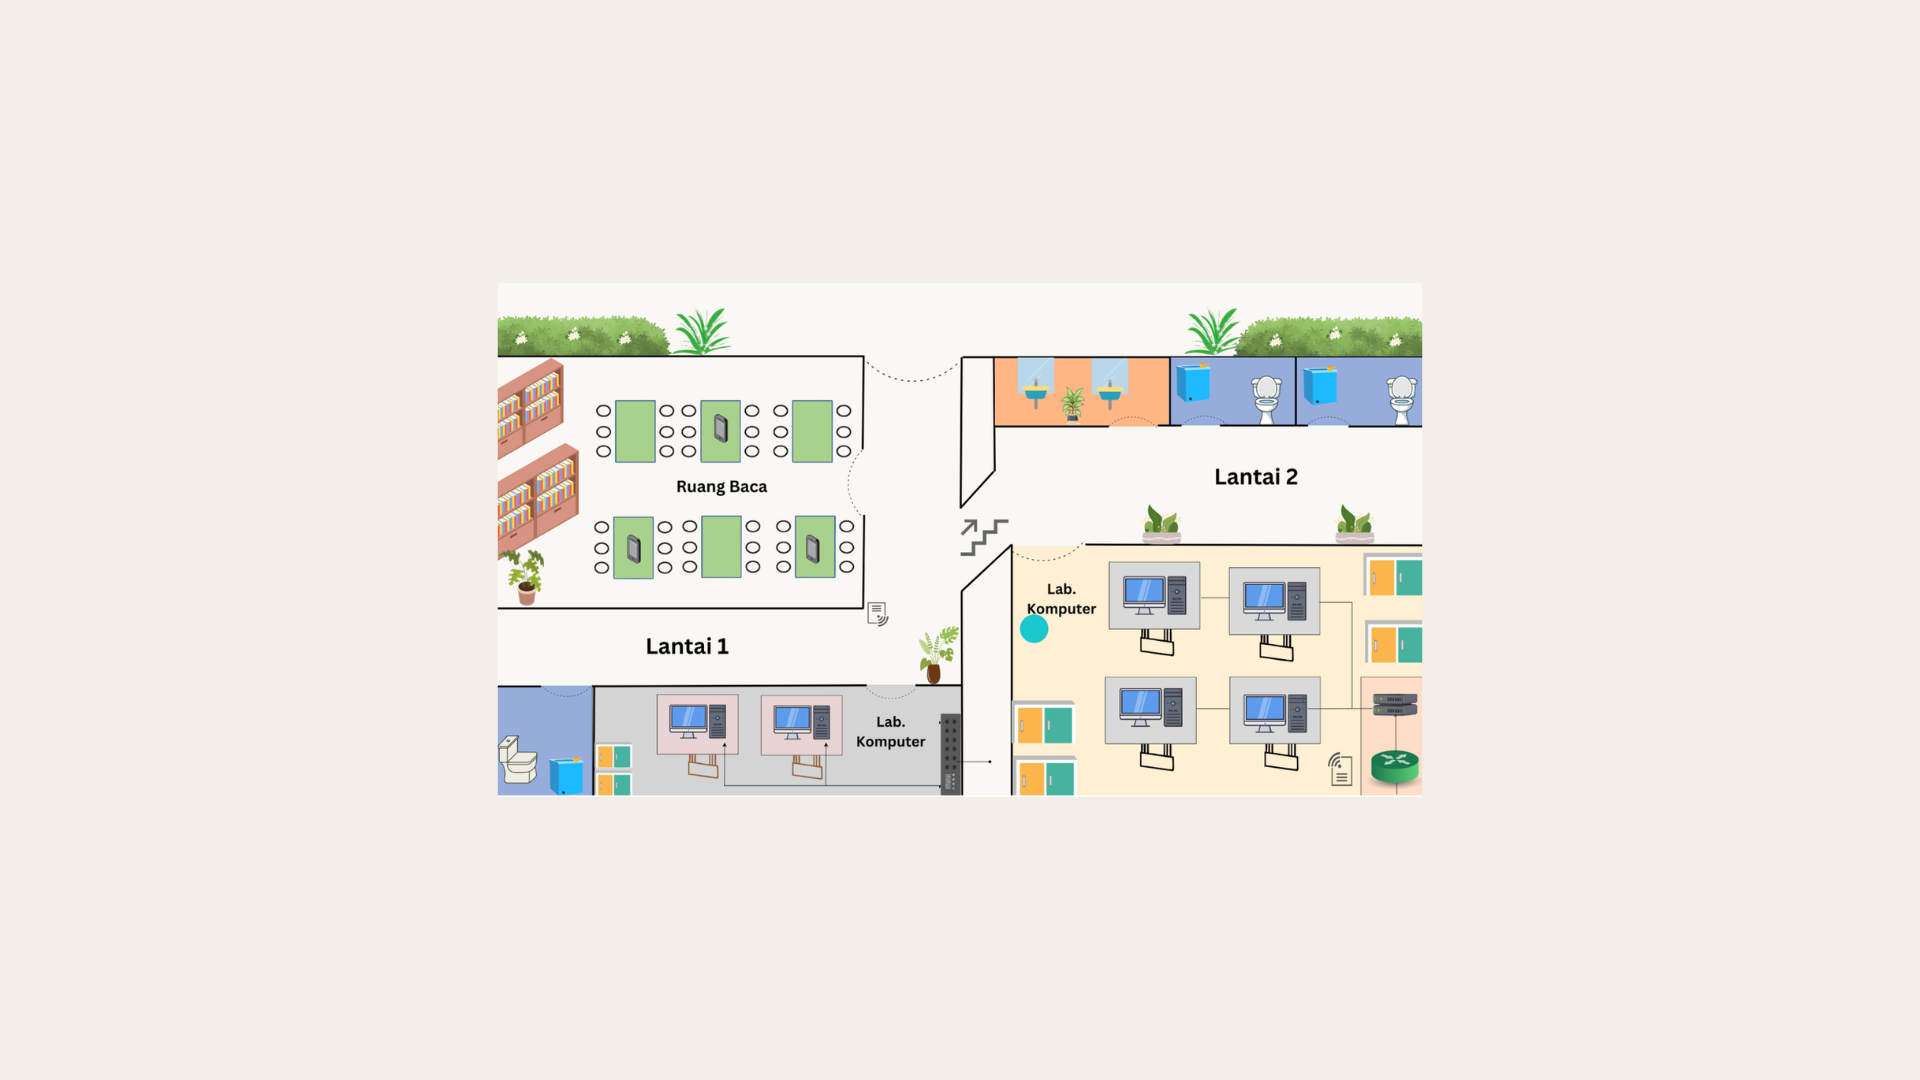
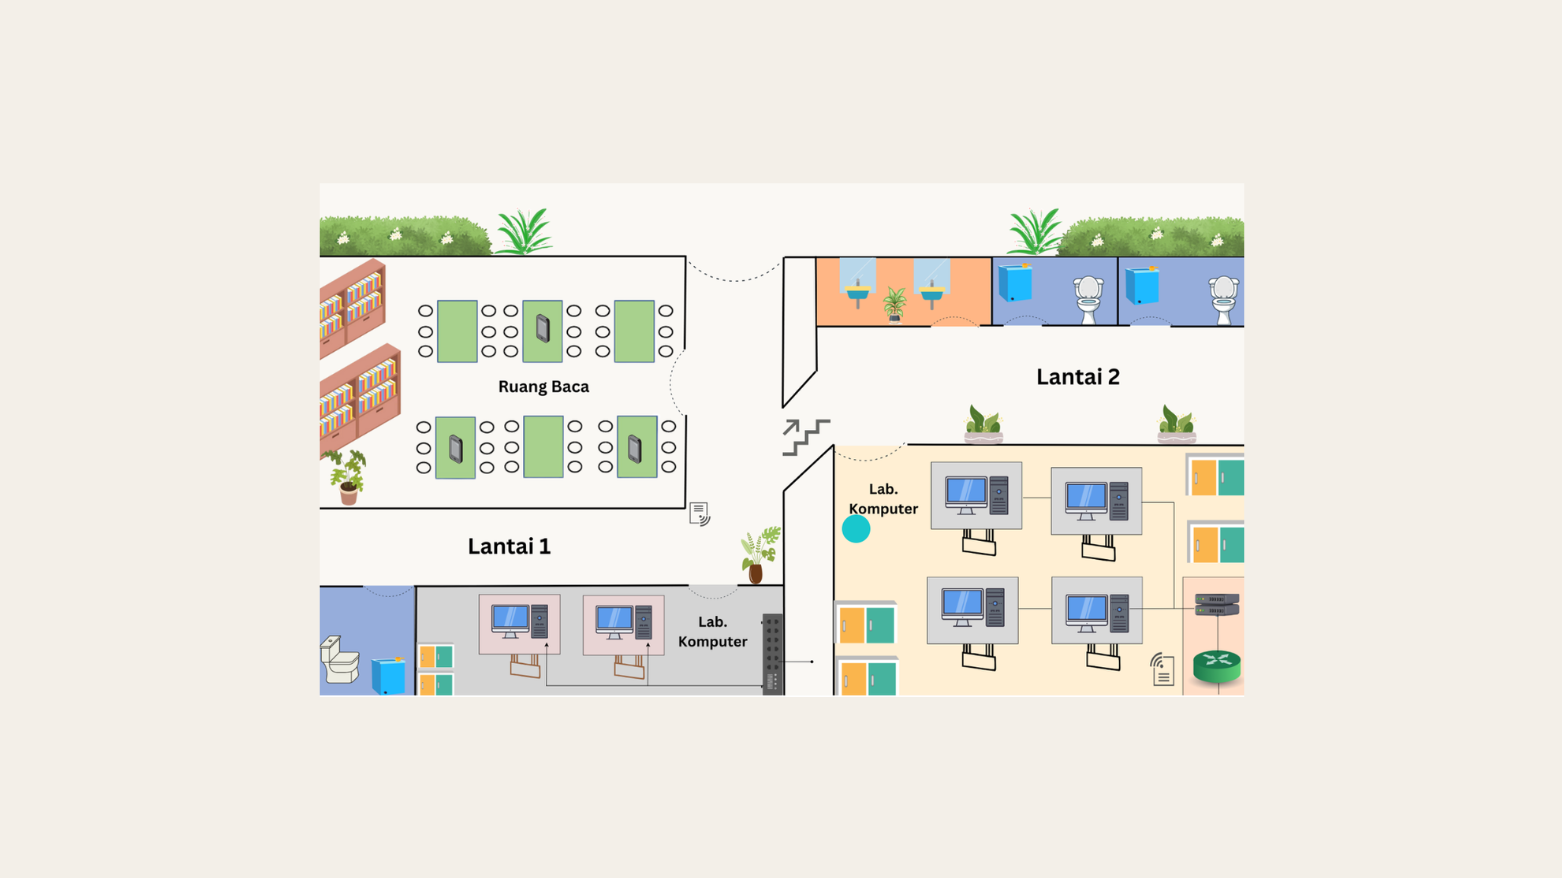
five commit portofolio

Changed region(s): [[0.1844, 0.246, 0.799, 0.7995]]

diff --git a/style.css b/style.css
@@ -592,7 +592,7 @@ img  { display: block; max-width: 100%; }
 }
 
 .slider-outer {
-  /* scroll-snap: 1 card penuh per slide, tidak ada clip vertikal */
+  /* scroll-snap: 1 card penuh per slide, card di-center, tidak ada card lain yang terlihat */
   overflow-x: auto;
   overflow-y: visible;
   scroll-snap-type: x mandatory;
@@ -601,9 +601,11 @@ img  { display: block; max-width: 100%; }
   max-width: 860px;
   width: 100%;
   margin: 0 auto;
-  padding: 0 24px 4px;
+  /* Hapus padding agar card mengisi penuh dan card berikutnya tidak terlihat */
+  padding: 0 0 4px;
   box-sizing: border-box;
   cursor: grab;
+  container-type: inline-size;
 }
 .slider-outer::-webkit-scrollbar { display: none; } /* Chrome/Safari */
 .slider-outer:active { cursor: grabbing; }
@@ -611,8 +613,7 @@ img  { display: block; max-width: 100%; }
 .slider-track {
   display: flex;
   align-items: flex-start;      /* tinggi card ikuti konten masing-masing, tidak di-stretch paksa */
-  gap: 1.5rem;
-  /* Lebar track mengembang sesuai jumlah card */
+  gap: 0;
   width: max-content;
 }
 
@@ -651,19 +652,20 @@ img  { display: block; max-width: 100%; }
   box-shadow: 0 0 10px rgba(212,134,140,.4);
 }
 
-/* Project cards — 1 card penuh per slide, scroll-snap */
+/* Project cards — 1 card penuh per slide, scroll-snap center */
 .project-card {
   /*
-    Lebar card = lebar .slider-outer dikurangi padding kiri+kanan (2×24px = 48px).
-    Gunakan min() agar tidak pernah melebihi 812px di desktop,
-    dan menyesuaikan sempurna di layar kecil tanpa terpotong.
+    Lebar card = 100% lebar container (100cqi).
+    scroll-snap-align: center memastikan card tepat di tengah dan
+    card sebelum/sesudahnya tidak terlihat sama sekali.
   */
-  flex: 0 0 min(calc(100% - 0px), 812px);
-  width: min(calc(100% - 0px), 812px);
-  max-width: 812px;
+  flex: 0 0 100cqi;
+  width: 100cqi;
+  max-width: 796px;
   min-width: 0;
-  /* scroll-snap: card berhenti tepat di kiri viewport */
-  scroll-snap-align: start;
+  margin-right: 0;
+  /* scroll-snap: card berhenti tepat di tengah container */
+  scroll-snap-align: center;
   scroll-snap-stop: always;
   /* layout flex column agar body stretch */
   display: flex;
@@ -678,18 +680,23 @@ img  { display: block; max-width: 100%; }
   box-sizing: border-box;
 }
 
+/* Card terakhir tidak perlu margin kanan */
+.project-card:last-child {
+  margin-right: 0;
+}
+
 @media (max-width: 768px) {
   .slider-arrows-right { position: static; }
   .slider-bottom-row { flex-direction: column; gap: 1rem; }
-  .slider-outer { padding: 0 16px 4px; }
+  .slider-outer { padding: 0 0 4px; }
 }
 
 @media (max-width: 480px) {
-  .slider-outer { padding: 0 12px 4px; }
+  .slider-outer { padding: 0 0 4px; }
 }
 
 @media (max-width: 360px) {
-  .slider-outer { padding: 0 8px 4px; }
+  .slider-outer { padding: 0 0 4px; }
 }
 
 .project-card:hover {
@@ -1169,8 +1176,6 @@ img  { display: block; max-width: 100%; }
   .skill-icon { font-size: 1.8rem; }
   .skill-item-label { font-size: .55rem; letter-spacing: .1em; }
 
-  /* Slider padding lebih kecil di HP */
-  .slider-outer { padding: 0 12px 4px; }
 }
 
 /* HP sangat kecil (≤ 360px) */
@@ -1185,6 +1190,4 @@ img  { display: block; max-width: 100%; }
     padding: 1rem .4rem;
   }
   .skill-icon { font-size: 1.6rem; }
-
-  .slider-outer { padding: 0 8px 4px; }
 }

diff --git a/script.js b/script.js
@@ -133,13 +133,9 @@ function initSlider() {
     else if (index < 0)      currentIndex = totalCards - 1;
     else                     currentIndex = index;
 
-    const card    = cards[currentIndex];
-    const cardGap = 24; // matches CSS gap 1.5rem ≈ 24px
-    // Scroll position = sum of all card widths before this index + gaps
-    let scrollLeft = 0;
-    for (let i = 0; i < currentIndex; i++) {
-      scrollLeft += cards[i].offsetWidth + cardGap;
-    }
+    // Scroll position = card width × index (gap = 0, card tepat 100% lebar outer)
+    const cardWidth = cards[0] ? cards[0].offsetWidth : outer.offsetWidth;
+    const scrollLeft = cardWidth * currentIndex;
     outer.scrollTo({ left: scrollLeft, behavior: 'smooth' });
     updateDots();
   }